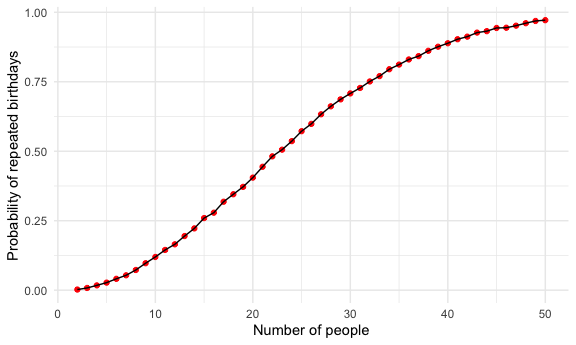
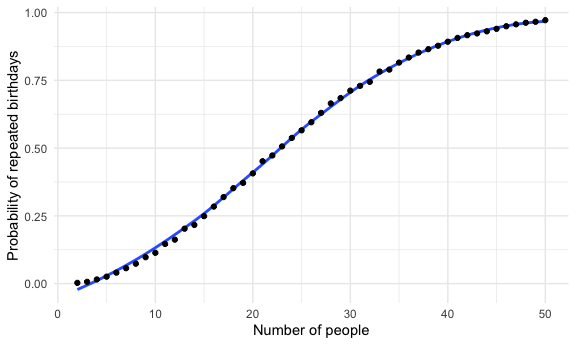
problem 2, plots

diff --git a/p8105_hw5_msp2210.md b/p8105_hw5_msp2210.md
@@ -47,13 +47,15 @@ comment on your results.**
 ``` r
 bday_sim_results %>% 
   ggplot(aes(x = bdays, y = prob_repeat)) +
-  geom_point(color = "red") +
-  geom_line() +
+  geom_smooth(se = FALSE) +
+  geom_point() +
   labs(
     x = "Number of people",
     y = "Probability of repeated birthdays"
   )
 ```
+
+    ## `geom_smooth()` using method = 'loess' and formula = 'y ~ x'
 
 <img src="plots/unnamed-chunk-3-1.png" width="90%" />
 
@@ -74,9 +76,14 @@ sim_t_test = function(n_subj = 30, sigma = 5, mu = 0) {
     tibble(
       x = rnorm(n = n_subj, mean = mu, sd = sigma)
     ) %>% 
-    summarize(tidy(t.test(x, mu = 0))) %>%
-    select(estimate, p.value, )
-}
+    summarize(tidy(t.test(x, mu = 0)))} %>% 
+  mutate(
+    hypothesis_test = case_when(
+      p.value < 0.05 ~ "Reject",
+      p.value > 0.05 ~ "Fail to Reject"
+    )) %>% 
+  select(estimate, p.value, hypothesis_test)
+
 
 sim_results_df =
   expand_grid(
@@ -87,3 +94,41 @@ sim_results_df =
     results = map(mu, ~ sim_t_test(mu = .x))) %>%
   unnest(results)
 ```
+
+**Make a plot showing the proportion of times the null was rejected (the
+power of the test) on the y axis and the true value of mu on the x axis.
+Describe the association between effect size and power.**
+
+``` r
+power_plot =
+  sim_results_df %>% 
+  group_by(mu) %>% 
+  summarize(
+    power = mean(hypothesis_test == "Reject"),
+    .groups = "drop"
+  ) %>% 
+  ggplot(aes(x = mu, y = power)) +
+  geom_smooth(se = FALSE) +
+  geom_point() +
+  scale_x_continuous(
+    breaks = 0:6
+  ) +
+  labs(
+    x = "True value of mu",
+    y = "Power",
+  )
+
+print(power_plot)
+```
+
+    ## `geom_smooth()` using method = 'loess' and formula = 'y ~ x'
+
+<img src="plots/unnamed-chunk-5-1.png" width="90%" />
+
+**Make a plot showing the average estimate of mu-hat on the y axis and
+the true value of mu on the x axis. Make a second plot (or overlay on
+the first) the average estimate of mu-hat only in samples for which the
+null was rejected on the y axis and the true value of mu on the x
+axis.**
+
+## Problem 3
